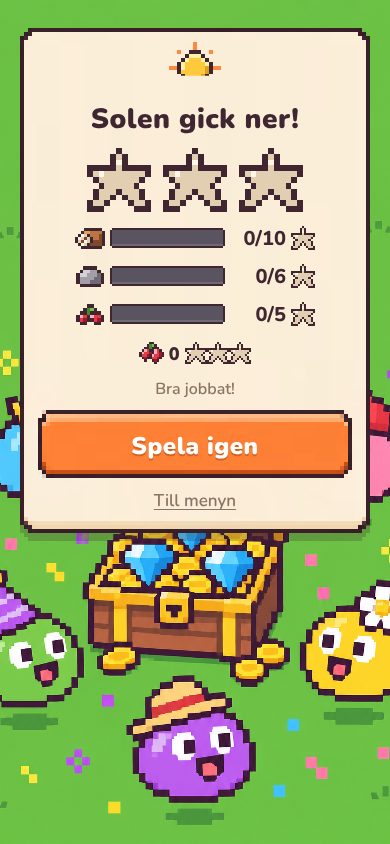
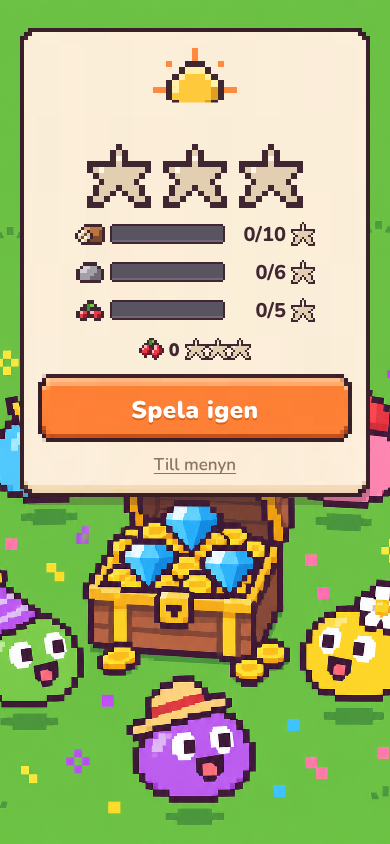
feat(end): end title as a picture (setting sun + stars), words only for screen readers
Claude-Session: https://claude.ai/code/session_019PjhQvNgzNv3LAiBBHLhoY

Changed region(s): [[0.0308, 0.0308, 0.9538, 0.6469]]

diff --git a/blobz/index.html b/blobz/index.html
@@ -170,11 +170,11 @@
     <section id="end" class="screen hidden">
       <div class="card">
         <img class="endsun" src="art/gather/sun.png" alt="" />
-        <h2 id="end-title" data-i18n="end.title">Solen gick ner!</h2>
+        <h2 id="end-title" class="sr-only" data-i18n="end.title">Solen gick ner!</h2>
         <div id="end-stars" class="stars"></div>
         <div id="end-rows" class="endrows"></div>
         <p id="end-mini" class="endmini hidden" aria-label="Bärregn" data-i18n-aria="mini.name"><img src="art/gather/item-berries.png" alt="" /> <b id="end-mini-n">0</b> <span id="end-mini-stars"></span></p>
-        <p class="tag" data-i18n="end.good">Bra jobbat!</p>
+        <p class="tag sr-only" data-i18n="end.good">Bra jobbat!</p>
         <button id="btn-again" class="big" data-i18n="end.again">Spela igen</button>
         <p id="end-wait" class="msg" data-i18n="end.waitHost">Väntar på värden...</p>
         <button id="btn-menu" class="link" data-i18n="end.menu">Till menyn</button>

diff --git a/blobz/src/style.css b/blobz/src/style.css
@@ -675,3 +675,6 @@ html { -webkit-text-size-adjust: 100%; text-size-adjust: 100%; }
 @keyframes miko { 50% { background-position: -40px 0; } }
 .mi-mark { align-self: center; height: 28px; image-rendering: pixelated; }
 .mi-mark.x { font-size: 34px; line-height: 1; color: #d2342c; text-align: center; font-weight: 900; }
+/* (e) end screen title is a picture (setting sun + stars); the words stay for screen readers only */
+.sr-only { position: absolute !important; width: 1px; height: 1px; padding: 0; margin: -1px; overflow: hidden; clip: rect(0 0 0 0); white-space: nowrap; border: 0; }
+#end .endsun { width: 84px; margin: 0 auto 2px; }
